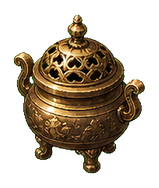
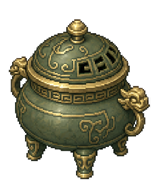
Redraw task42 furniture batch4

diff --git a/tools/cut_task42_furniture_batch4.py b/tools/cut_task42_furniture_batch4.py
@@ -1,0 +1,182 @@
+#!/usr/bin/env python3
+from pathlib import Path
+from PIL import Image, ImageDraw
+
+ROOT = Path(__file__).resolve().parents[1]
+SRC_DIR = ROOT / "assets/source/task42"
+
+ITEMS = {
+    "storage_medicine_cabinet": {
+        "src": "storage_medicine_cabinet_sheet_v1.png",
+        "out_dir": ROOT / "assets/furniture/storage",
+        "canvas": (312, 286),
+        "pad": 10,
+        "boxes": [
+            (22, 145, 480, 820),
+            (548, 146, 1004, 826),
+            (1070, 154, 1524, 840),
+            (1566, 154, 2024, 836),
+        ],
+    },
+    "decor_weiqi": {
+        "src": "decor_weiqi_sheet_v1.png",
+        "out_dir": ROOT / "assets/furniture/decor",
+        "canvas": (282, 230),
+        "pad": 8,
+        "boxes": [
+            (0, 298, 524, 660),
+            (512, 300, 1030, 660),
+            (1020, 300, 1538, 662),
+            (1530, 298, 2048, 662),
+        ],
+    },
+    "decor_guqin": {
+        "src": "decor_guqin_sheet_v1.png",
+        "out_dir": ROOT / "assets/furniture/decor",
+        "canvas": (281, 213),
+        "pad": 8,
+        "boxes": [
+            (34, 264, 562, 724),
+            (540, 264, 1034, 728),
+            (1028, 268, 1510, 724),
+            (1496, 262, 2016, 730),
+        ],
+    },
+    "decor_teaset": {
+        "src": "decor_teaset_sheet_v1.png",
+        "out_dir": ROOT / "assets/furniture/decor",
+        "canvas": (245, 176),
+        "pad": 8,
+        "boxes": [
+            (14, 306, 504, 678),
+            (525, 310, 1006, 686),
+            (1030, 314, 1502, 668),
+            (1548, 310, 2030, 682),
+        ],
+    },
+    "decor_censer": {
+        "src": "decor_censer_sheet_v1.png",
+        "out_dir": ROOT / "assets/furniture/decor",
+        "canvas": (159, 188),
+        "pad": 8,
+        "boxes": [
+            (52, 246, 504, 740),
+            (556, 246, 998, 740),
+            (1072, 246, 1516, 742),
+            (1556, 246, 1988, 742),
+        ],
+    },
+}
+
+SUFFIXES = ["", "_r1", "_r2", "_r3"]
+
+
+def white_to_alpha(im):
+    im = im.convert("RGBA")
+    px = im.load()
+    for y in range(im.height):
+        for x in range(im.width):
+            r, g, b, a = px[x, y]
+            dist = max(0, 255 - min(r, g, b))
+            if r > 248 and g > 248 and b > 248:
+                px[x, y] = (r, g, b, 0)
+            elif r > 242 and g > 242 and b > 242:
+                px[x, y] = (r, g, b, min(a, dist * 5))
+    return im
+
+
+def remove_small_fragments(im, min_area=120):
+    alpha = im.getchannel("A")
+    w, h = im.size
+    pix = alpha.load()
+    seen = set()
+    comps = []
+    for y in range(h):
+        for x in range(w):
+            if pix[x, y] <= 8 or (x, y) in seen:
+                continue
+            stack = [(x, y)]
+            seen.add((x, y))
+            pts = []
+            while stack:
+                px, py = stack.pop()
+                pts.append((px, py))
+                for nx in (px - 1, px, px + 1):
+                    for ny in (py - 1, py, py + 1):
+                        if nx < 0 or ny < 0 or nx >= w or ny >= h or (nx, ny) in seen:
+                            continue
+                        if pix[nx, ny] > 8:
+                            seen.add((nx, ny))
+                            stack.append((nx, ny))
+            comps.append(pts)
+    keep = set()
+    for pts in comps:
+        if len(pts) >= min_area:
+            keep.update(pts)
+    out = Image.new("RGBA", im.size, (0, 0, 0, 0))
+    src = im.load()
+    dst = out.load()
+    for x, y in keep:
+        dst[x, y] = src[x, y]
+    return out
+
+
+def strip_edge_alpha(im):
+    px = im.load()
+    w, h = im.size
+    for x in range(w):
+        px[x, 0] = px[x, 0][:3] + (0,)
+        px[x, h - 1] = px[x, h - 1][:3] + (0,)
+    for y in range(h):
+        px[0, y] = px[0, y][:3] + (0,)
+        px[w - 1, y] = px[w - 1, y][:3] + (0,)
+    return im
+
+
+def fit_canvas(crop, canvas, pad):
+    crop = remove_small_fragments(white_to_alpha(crop))
+    bbox = crop.getchannel("A").getbbox()
+    out = Image.new("RGBA", canvas, (0, 0, 0, 0))
+    if not bbox:
+        return out
+    spr = crop.crop(bbox)
+    max_w = canvas[0] - pad * 2
+    max_h = canvas[1] - pad * 2
+    scale = min(max_w / spr.width, max_h / spr.height)
+    nw = max(1, int(spr.width * scale))
+    nh = max(1, int(spr.height * scale))
+    spr = spr.resize((nw, nh), Image.Resampling.LANCZOS)
+    out.alpha_composite(spr, ((canvas[0] - nw) // 2, canvas[1] - pad - nh))
+    return strip_edge_alpha(remove_small_fragments(out))
+
+
+def make_preview(paths, out_path):
+    cell_w = max(Image.open(p).width for p in paths) + 22
+    cell_h = max(Image.open(p).height for p in paths) + 42
+    rows = (len(paths) + 3) // 4
+    preview = Image.new("RGBA", (cell_w * 4, cell_h * rows), (232, 229, 218, 255))
+    d = ImageDraw.Draw(preview)
+    for idx, path in enumerate(paths):
+        im = Image.open(path).convert("RGBA")
+        x = (idx % 4) * cell_w + (cell_w - im.width) // 2
+        y = (idx // 4) * cell_h + 10
+        preview.alpha_composite(im, (x, y))
+        d.text(((idx % 4) * cell_w + 8, y + im.height + 8), path.stem, fill=(0, 0, 0, 255))
+    preview.save(out_path)
+
+
+def main():
+    written = []
+    for item_id, cfg in ITEMS.items():
+        sheet = Image.open(SRC_DIR / cfg["src"]).convert("RGBA")
+        cfg["out_dir"].mkdir(parents=True, exist_ok=True)
+        for suffix, box in zip(SUFFIXES, cfg["boxes"]):
+            out = fit_canvas(sheet.crop(box), cfg["canvas"], cfg["pad"])
+            path = cfg["out_dir"] / f"{item_id}{suffix}.png"
+            out.save(path)
+            written.append(path)
+    make_preview(written, ROOT / "preview_task42_furniture_batch4_x2.png")
+
+
+if __name__ == "__main__":
+    main()
